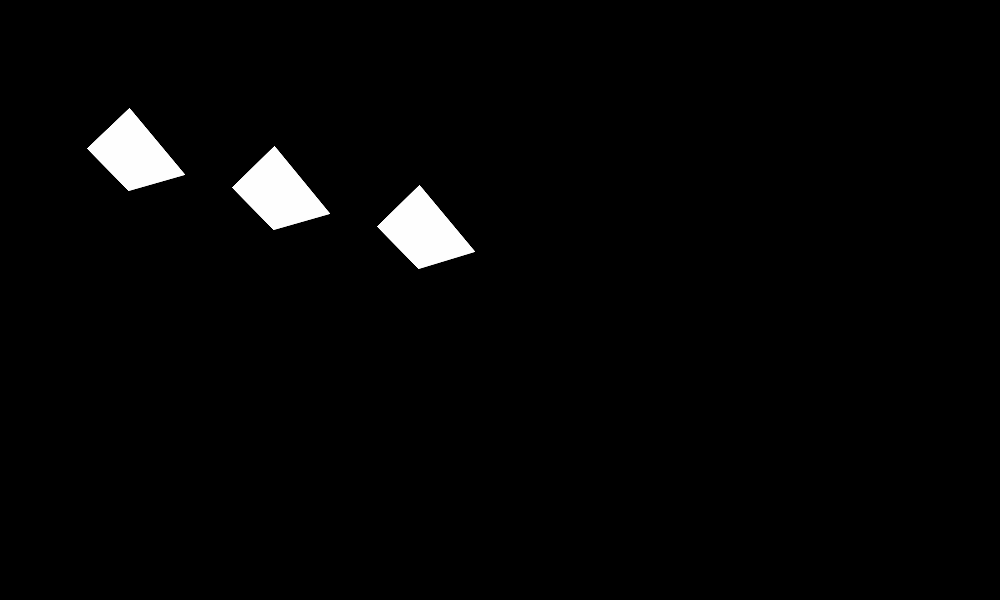
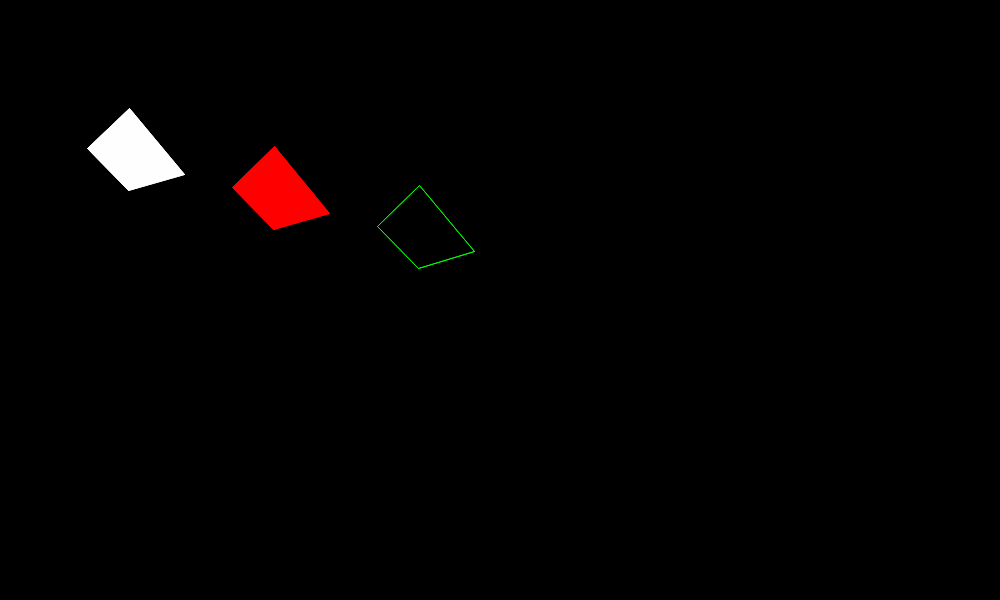
Implementing SGNode* classes

Changed region(s): [[0.372, 0.3, 0.496, 0.45], [0.217, 0.24, 0.341, 0.39]]

diff --git a/include/Pt/Gfx/SGNode.h b/include/Pt/Gfx/SGNode.h
@@ -50,18 +50,29 @@ class ImagePainter2;
   */
 class PT_GFX_API SGNode {
     public:
+        enum RenderMode {
+            RenderNone,
+            RenderFill,
+            RenderStroke,
+            RenderStrokeAutoClose
+        };
+
+    public:
         typedef std::vector<SGNode*> Children;
 
     public:
-        inline SGNode()
+        inline SGNode(RenderMode rm)
+        : _rm(rm)
         {}
 
-        inline SGNode(const Transform& transform)
-        : _transform( transform )
+        inline SGNode(RenderMode rm, const Transform& transform)
+        : _rm(rm)
+        , _transform( transform )
         {}
 
-        inline SGNode(const Transform& transform, const Children& children)
-        : _transform( transform )
+        inline SGNode(RenderMode rm, const Transform& transform, const Children& children)
+        : _rm(rm)
+        , _transform( transform )
         , _children ( children )
         {}
 
@@ -125,12 +136,13 @@ class PT_GFX_API SGNode {
         { return _children.end(); }
 
     protected:
-        Pen       _pen;
-        Brush     _brush;
+        RenderMode _rm;
+        Pen        _pen;
+        Brush      _brush;
 
-        Transform _transform;
+        Transform  _transform;
 
-        Children  _children;
+        Children   _children;
 };
 
 
@@ -138,21 +150,27 @@ class PT_GFX_API SGNode {
   */
 class PT_GFX_API SGNodePath : public SGNode {
     public:
-        inline SGNodePath()
+        inline SGNodePath(RenderMode rm = RenderNone)
+        : SGNode     ( rm )
+        , _smoothness( 1.0f )
         {}
 
-        inline SGNodePath(const Path& path)
-        : _path ( path )
+        inline SGNodePath(RenderMode rm, const Path& path)
+        : SGNode     ( rm )
+        , _path      ( path )
+        , _smoothness( 1.0f )
         {}
 
-        inline SGNodePath(const Path& path, const Transform& transform)
-        : SGNode( transform )
-        , _path ( path )
+        inline SGNodePath(RenderMode rm, const Path& path, const Transform& transform)
+        : SGNode     ( rm, transform )
+        , _path      ( path )
+        , _smoothness( 1.0f )
         {}
 
-        inline SGNodePath(const Path& path, const Transform& transform, const Children& children)
-        : SGNode( transform, children )
-        , _path ( path )
+        inline SGNodePath(RenderMode rm, const Path& path, const Transform& transform, const Children& children)
+        : SGNode     ( rm, transform, children )
+        , _path      ( path )
+        , _smoothness( 1.0f )
         {}
 
         virtual ~SGNodePath();
@@ -167,6 +185,9 @@ class PT_GFX_API SGNodePath : public SGNode {
         // Drawing
         //
 
+        inline void setSmoothness(float smoothness)
+        { _smoothness = smoothness; }
+
         virtual void draw(ImagePainter2& painter, TransformStack& tstack, const Transform& transform);
 
         //
@@ -180,7 +201,8 @@ class PT_GFX_API SGNodePath : public SGNode {
         { return _path; }
 
     protected:
-        Path _path;
+        Path  _path;
+        float _smoothness;
 };
 
 

diff --git a/src/Pt-Gfx/SGNode.cpp b/src/Pt-Gfx/SGNode.cpp
@@ -96,13 +96,31 @@ void SGNodePath::draw(ImagePainter2& painter, TransformStack& tstack, const Tran
 
     //
     std::vector<PointF> pointsF;
-    _path.generatePoints(pointsF, 1);
+    _path.generatePoints(pointsF, _smoothness);
 
     //
     thisTransform.transformPoints(pointsF.data(), pointsF.size());
 
     //
-    painter.fillPolygon(pointsF.data(), pointsF.size());
+    switch(_rm) {
+        case RenderNone:
+            break;
+
+        case RenderFill:
+            painter.fillPolygon(pointsF.data(), pointsF.size());
+            break;
+
+        case RenderStroke:
+            painter.drawPolyline(pointsF.data(), pointsF.size(), false);
+            break;
+
+        case RenderStrokeAutoClose:
+            painter.drawPolyline(pointsF.data(), pointsF.size(), true);
+            break;
+
+        default:
+            break;
+    }
 
     //
     painter.setPen  (pen  );

diff --git a/src/Pt-Gfx/tests/ImagePainterTest2_SceneGraph.cpp b/src/Pt-Gfx/tests/ImagePainterTest2_SceneGraph.cpp
@@ -22,15 +22,17 @@ static void testSceneGraph(const char* title, Image& image, Painter& painter)
     pathPoly4.endPath  ();
 
     // Parent's 1st child
-    csgn = &sgn.addChild(new SGNodePath(pathPoly4));
+    csgn = &sgn.addChild(new SGNodePath(SGNode::RenderFill, pathPoly4));
 
     // Parent's 2nd child
-    csgn = &sgn.addChild(new SGNodePath(pathPoly4));
+    csgn = &sgn.addChild(new SGNodePath(SGNode::RenderFill, pathPoly4));
     csgn->transform().translate(150, 0);
+    csgn->setBrush(Color::fromRgb8(255, 0, 0));
 
     // 2nd-child's 1st child
-    csgn = &csgn->addChild(new SGNodePath(pathPoly4));
+    csgn = &csgn->addChild(new SGNodePath(SGNode::RenderStrokeAutoClose, pathPoly4));
     csgn->transform().translate(150, 0);
+    csgn->setPen(Color::fromRgb8(0, 255, 0));
 
     // Draw it
     sgn.transform().rotate(-15);
